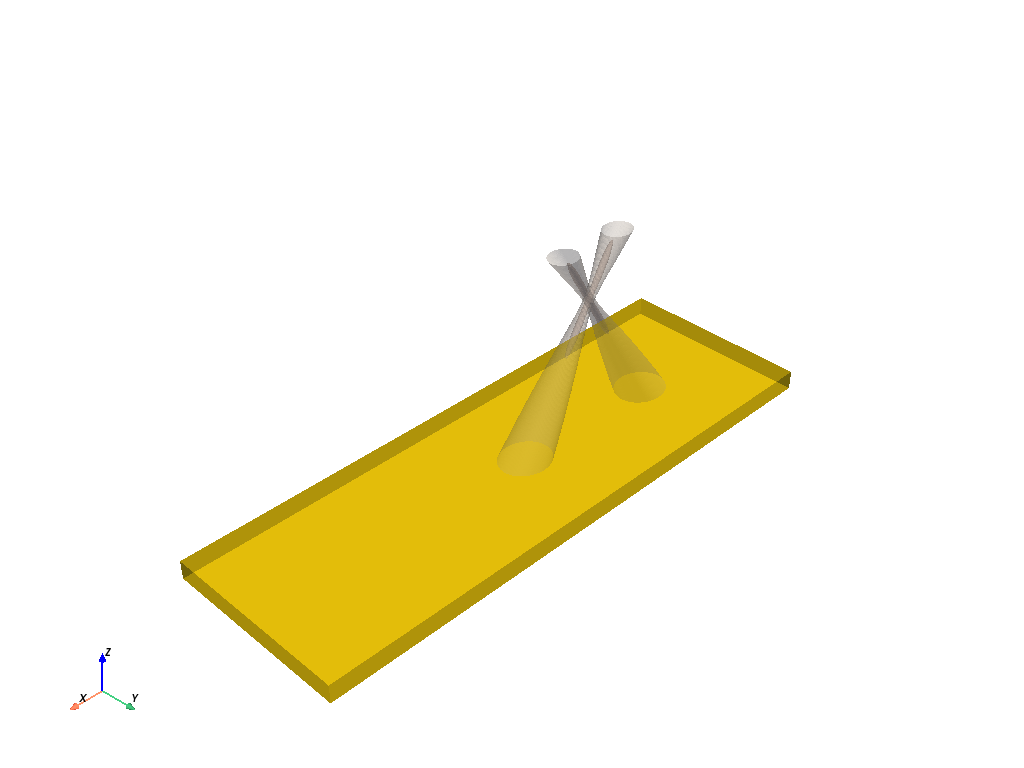
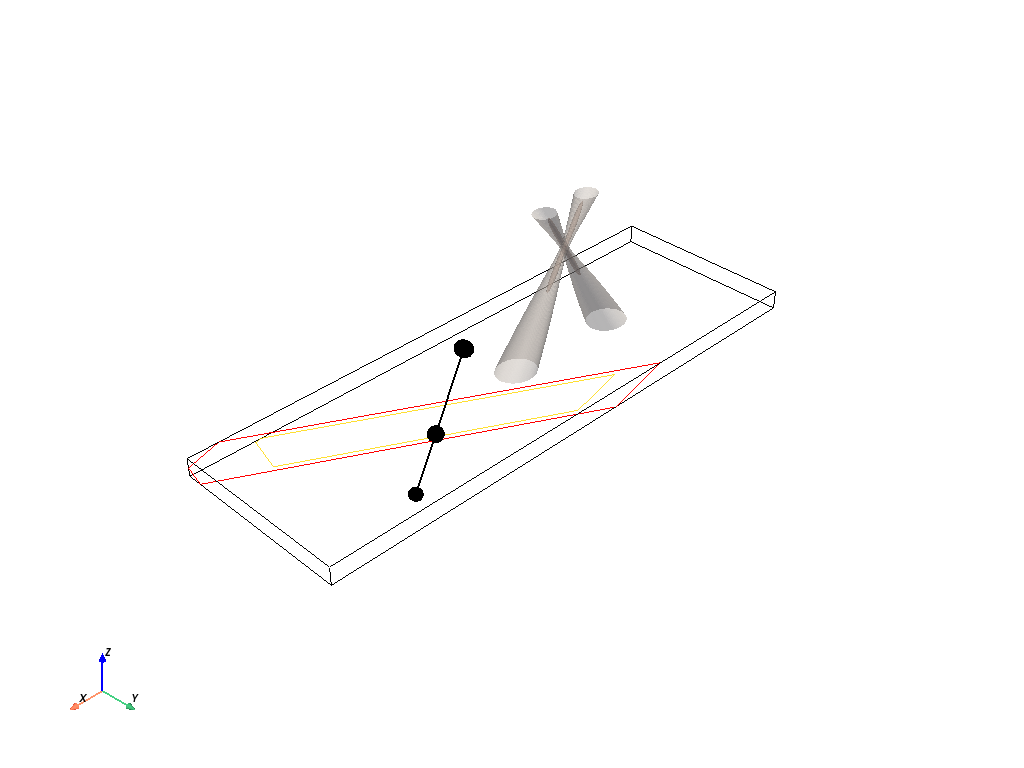
Up plots
Former-commit-id: 276bd779e865308c4d44863e9b12519d0a6b7b25

Changed region(s): [[0.1562, 0.2188, 0.7812, 0.9062], [0.2812, 0.5312, 0.3125, 0.5625]]

diff --git a/paper-figures/plotting/plot3d.py b/paper-figures/plotting/plot3d.py
@@ -25,7 +25,8 @@ def plot_electrode(plotter, center=(0.0, 0.0, 0.0), x_length=1.0, y_length=1.0, 
     opacity: float, optional
         The opacity of the electrode. Defaults to 0.8.
     """
-    plotter.add_mesh(pv.Cube(center=center, x_length=x_length, y_length=y_length, z_length=z_length, bounds=bounds), color=color, opacity=opacity)
+    electrode = pv.Cube(center=center, x_length=x_length, y_length=y_length, z_length=z_length, bounds=bounds)
+    plotter.add_mesh(electrode, color=color, opacity=opacity)
 
 
 def gaussian_beam(x, y, z, r0, n, w0, zR):
@@ -93,7 +94,7 @@ def plot_gaussian_beam(plotter, x, y, z, r0, n, w0, zR, opacity=0.45, cmap="Reds
     plotter.add_mesh(contour, opacity=opacity, cmap=cmap, show_scalar_bar=False)
 
 
-def plot_vector_field(plotter, x, y, z, u, v, w, color='gray', factor=0.5):
+def plot_vector_field(plotter, x, y, z, u, v, w, factor=0.5, **kwargs):
     """
     Add a vector field to the plotter.
 
@@ -110,7 +111,9 @@ def plot_vector_field(plotter, x, y, z, u, v, w, color='gray', factor=0.5):
         The scaling factor applied to the vectors. Defaults to 0.5.
     """
     grid = pv.StructuredGrid(x, y, z)
-    grid["vectors"] = np.stack([u.flatten("F"), v.flatten("F"), w.flatten("F")], axis=-1)
-    grid.set_active_vectors("vectors")
-    arrows = grid.glyph(scale=False, factor=factor)
-    plotter.add_mesh(arrows, color=color, show_scalar_bar=False)
+    v = np.stack([u.flatten("F"), v.flatten("F"), w.flatten("F")], axis=-1)
+    grid["magnitude"] = np.sqrt(np.sum(v**2, axis=-1))
+    grid["vectors"] = v
+    # print(grid['magnitude'].min(), grid['magnitude'].max())
+    arrows = grid.glyph(orient="vectors", scale=False, factor=factor)
+    plotter.add_mesh(arrows, scalars="magnitude", show_scalar_bar=False, **kwargs)

diff --git a/paper-figures/integrated_beams.py b/paper-figures/integrated_beams.py
@@ -10,7 +10,7 @@ from plotting import plot3d as p3d
 
 
 def main():
-
+    pv.set_plot_theme('document')
     plotter = pv.Plotter()
 
     # Plot the electrode
@@ -24,12 +24,10 @@ def main():
     theta = 30 * np.pi / 180
 
     n1 = (-np.sin(theta), 0, np.cos(theta))
-    b1 = p3d.gaussian_beam(x, y, z, focus, n1, w0, zR)
-    p3d.plot_gaussian_beam(plotter, b1, x, y, z)
+    p3d.plot_gaussian_beam(plotter, x, y, z, focus, n1, w0, zR)
 
     n1 = (np.sin(theta), 0, np.cos(theta))
-    b1 = p3d.gaussian_beam(x, y, z, focus, n1, w0, zR)
-    p3d.plot_gaussian_beam(plotter, b1, x, y, z)
+    p3d.plot_gaussian_beam(plotter, x, y, z, focus, n1, w0, zR)
 
     # Add the example electric field vector
     # x, y, z = np.mgrid[-5:5:10j, -5:5:10j, 0:10:10j]

diff --git a/paper-figures/electrodes3d_surface_trap.py b/paper-figures/electrodes3d_surface_trap.py
@@ -62,13 +62,12 @@ def main():
     plotter = pv.Plotter()
 
     for name, ee in electrodes.items():
-        print(name, ee)
         p3d.plot_electrode(plotter, *ee)
 
     # Create the grid for the vector field
-    x, y, z = np.mgrid[-325:325:10j, -100:100:10j, 1e-2:100:10j]
+    x, y, z = np.mgrid[0:0:1j, -200:200:30j, 10:200:30j]
     u, v, w = electric_field(x, y, z)
-    p3d.plot_vector_field(plotter, x, y, z, u, v, w, factor=10)
+    p3d.plot_vector_field(plotter, x, y, z, u, v, w, factor=12, cmap='Greens', clim=(800, 15000))
 
     plotter.add_axes(color='k')
     plotter.show(screenshot="figures/surface_trap.png")

diff --git a/paper-figures/electrodes3d_segmented_trap.py b/paper-figures/electrodes3d_segmented_trap.py
@@ -57,9 +57,9 @@ def main():
         p3d.plot_electrode(plotter, *ee)
 
     # Create the grid for the vector field
-    # x, y, z = np.mgrid[-325:325:10j, -3:3:10j, -3:3:10j]
+    # x, y, z = np.mgrid[-0:0:1j, -3:3:7j, -3:3:7j]
     # u, v, w = electric_field(x, y, z)
-    # p3d.plot_vector_field(plotter, x, y, z, u, v, w, factor=4)
+    # p3d.plot_vector_field(plotter, x, y, z, u, v, w, factor=2, cmap='Reds')
 
     plotter.add_axes(color='k')
     plotter.show(screenshot="figures/segmented_trap.png")
